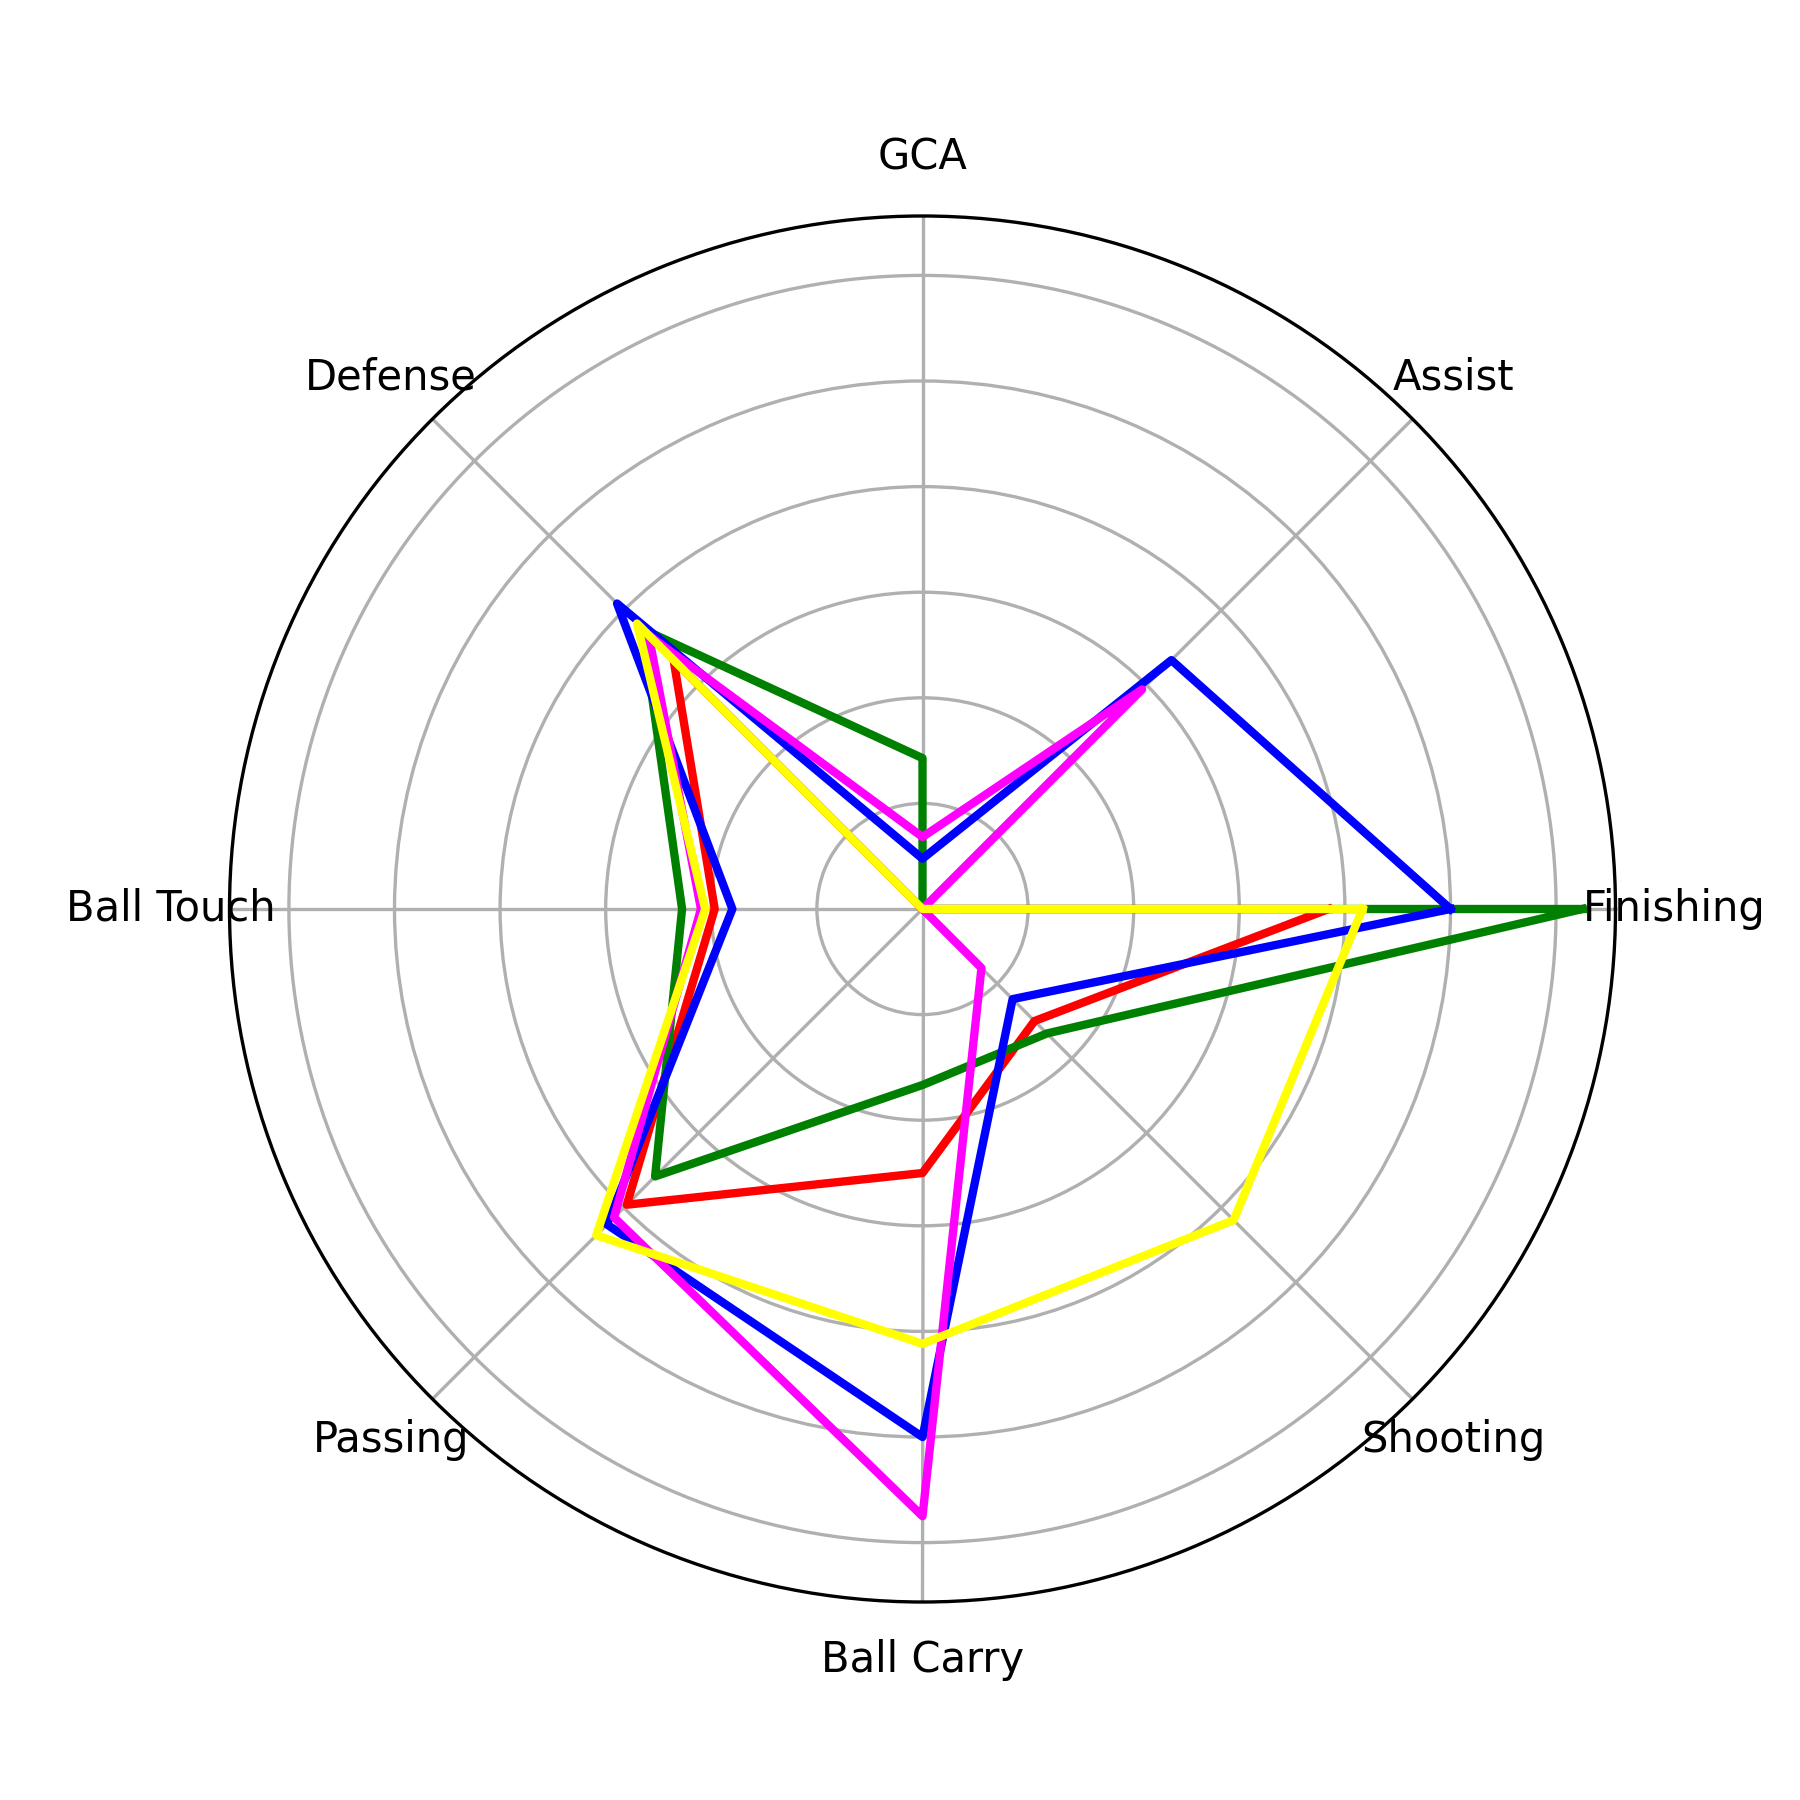
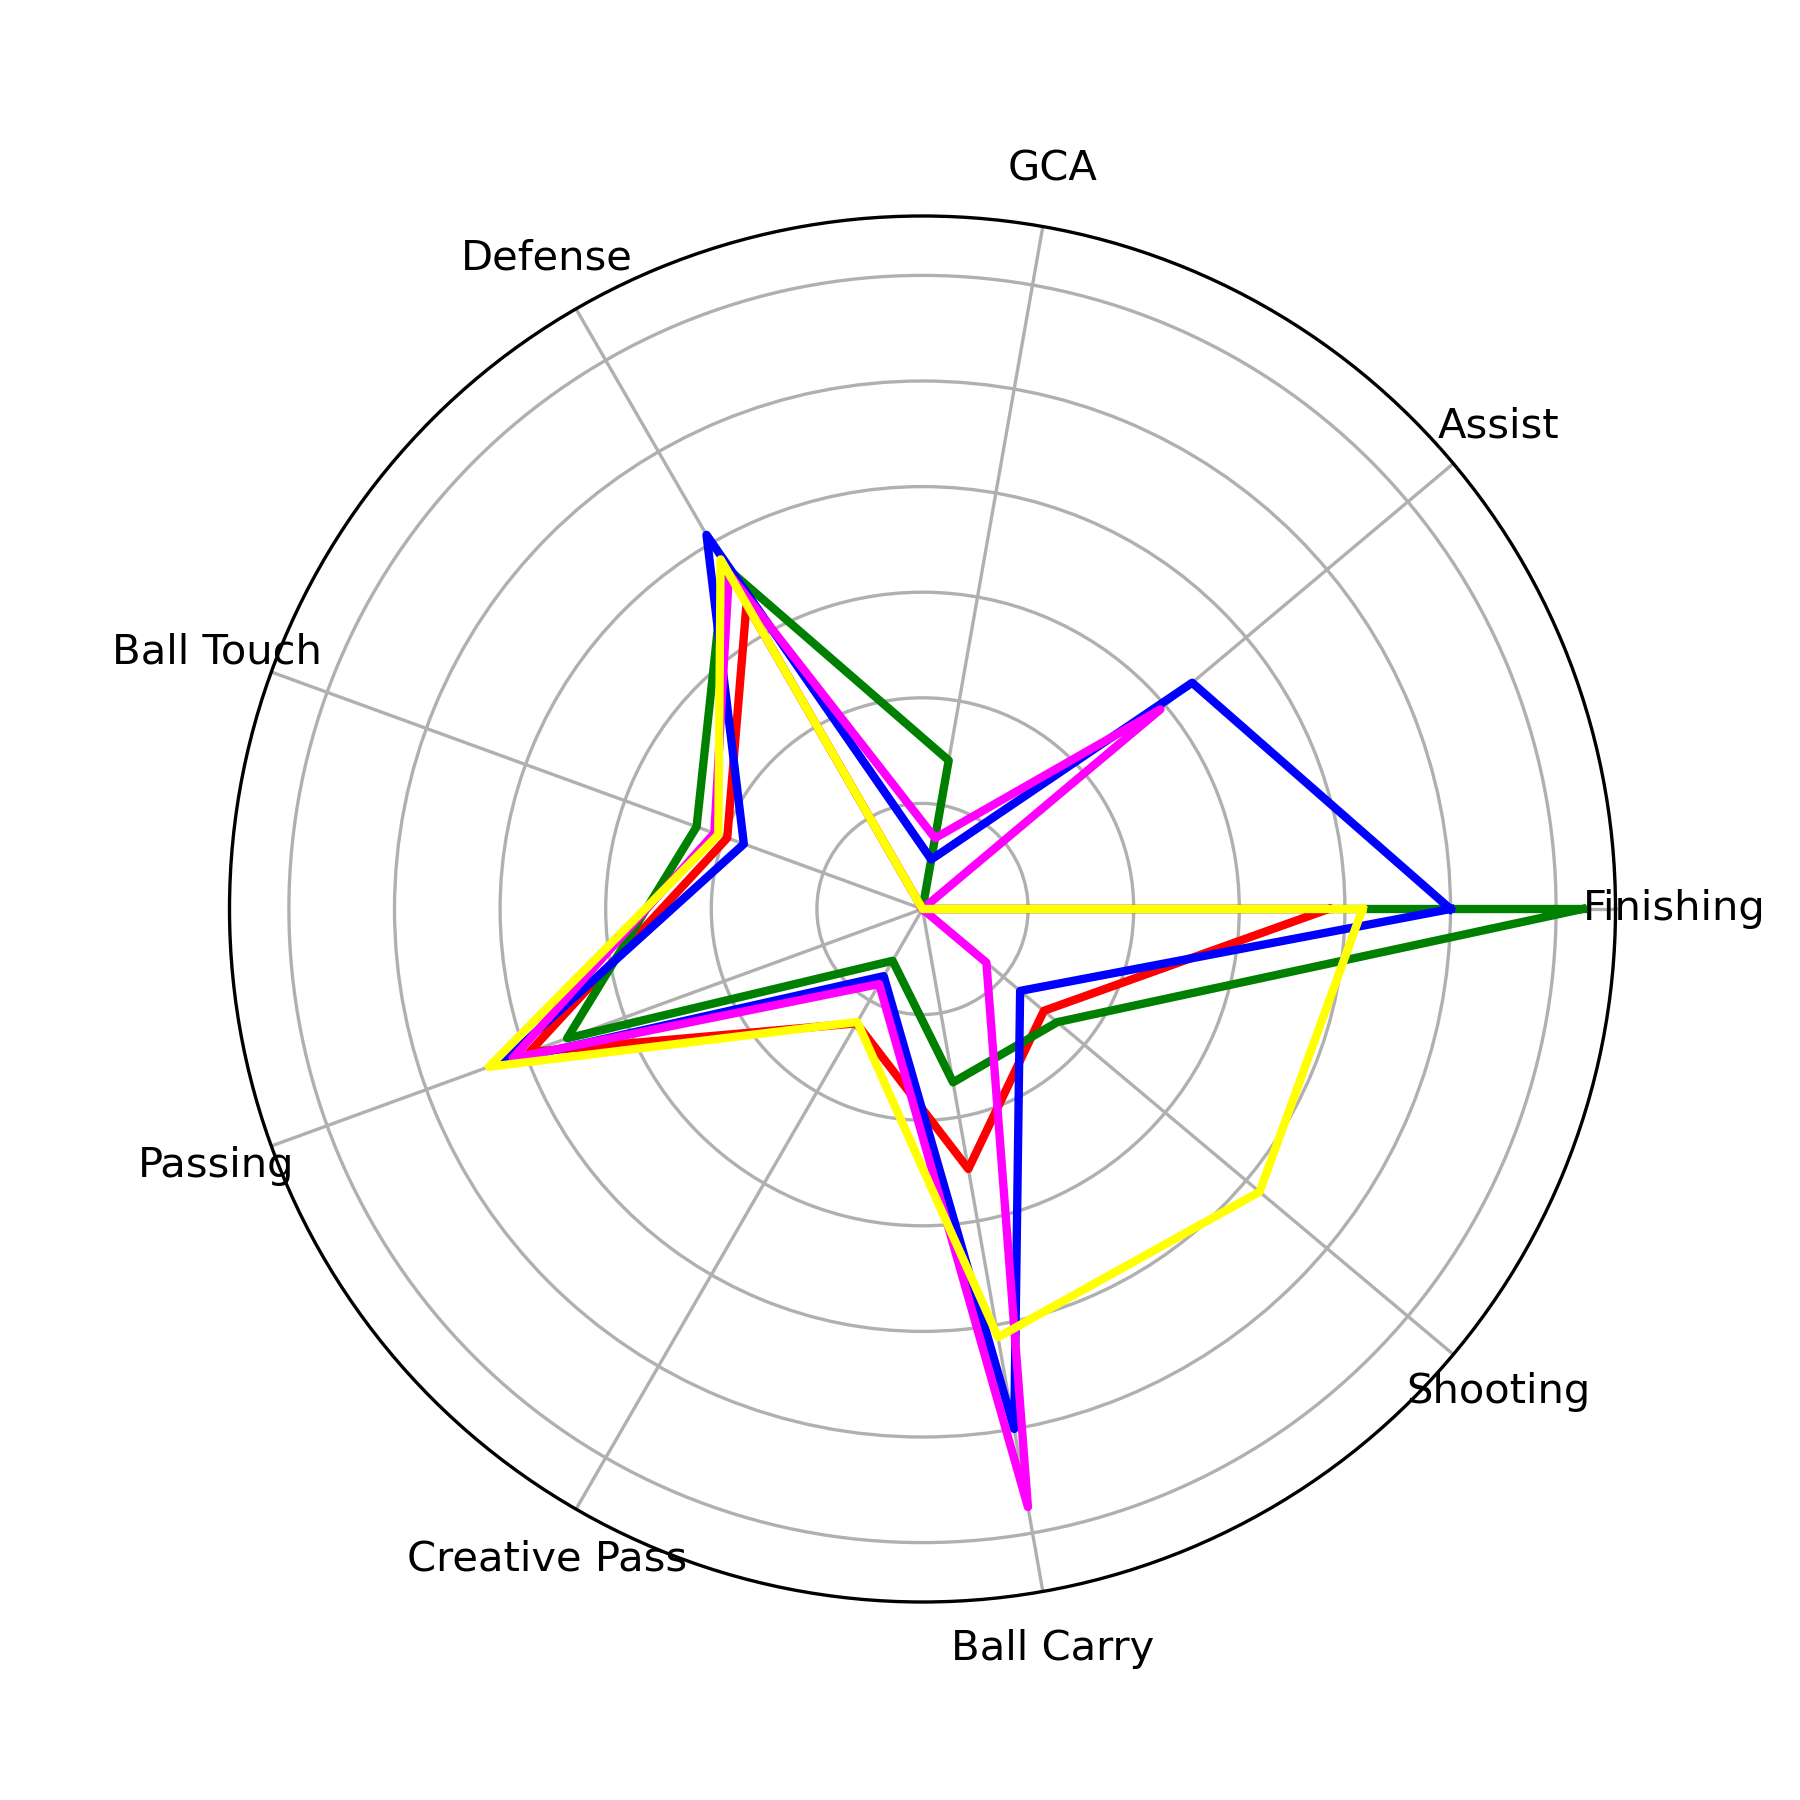
MID Radar 비교 스텟 추가

diff --git a/VS_mid_player/mid_player_vs_radar.py b/VS_mid_player/mid_player_vs_radar.py
@@ -14,11 +14,12 @@ def append_data(value, data):
     value.append(((data['Tackles TklW'].sum() +  data['Int'].sum())/ (data['Min'].sum() / 90)) / (data['Tkl+Int'].sum() / (data['Min'].sum() / 90)) if data['Tkl+Int'].sum() != 0 else 0.0)
     value.append((data['Touches Att 3rd'].sum() / (data['Min'].sum() / 90)) / (data['Touches Touches'].sum() / (data['Min'].sum() / 90)) if data['Touches Touches'].sum() != 0 else 0.0)
     value.append((data['Passes Cmp'].sum() / (data['Min'].sum() / 90)) / (data['Passes Att'].sum() / (data['Min'].sum() / 90)) if data['Passes Att'].sum() != 0 else 0.0)
+    value.append(((data['Passes Fin 3rd'].sum() + data['KP'].sum() + data['PPA'].sum())/ (data['Min'].sum() / 90)) / (data['Passes Cmp'].sum() / (data['Min'].sum() / 90)) if data['Passes Cmp'].sum() != 0 else 0.0)
     value.append((data['Carries Fin 3rd'].sum() / (data['Min'].sum() / 90)) / (data['Carries PrgC'].sum() / (data['Min'].sum() / 90)) if data['Carries PrgC'].sum() != 0 else 0.0)
     value.append((data['Performance SoT'].sum() / (data['Min'].sum() / 90)) / (data['Performance Sh'].sum() / (data['Min'].sum() / 90)) if data['Performance Sh'].sum() != 0 else 0.0)
 
 def fw_radar(player1, player2, player3, player4, player5):
-    categories = ['Finishing', 'Assist', 'GCA', 'Defense', 'Ball Touch', 'Passing', 'Ball Carry', 'Shooting']
+    categories = ['Finishing', 'Assist', 'GCA', 'Defense', 'Ball Touch', 'Passing', 'Creative Pass', 'Ball Carry', 'Shooting']
     cody_value = []
     curtis_value = []
     dominik_value= []
